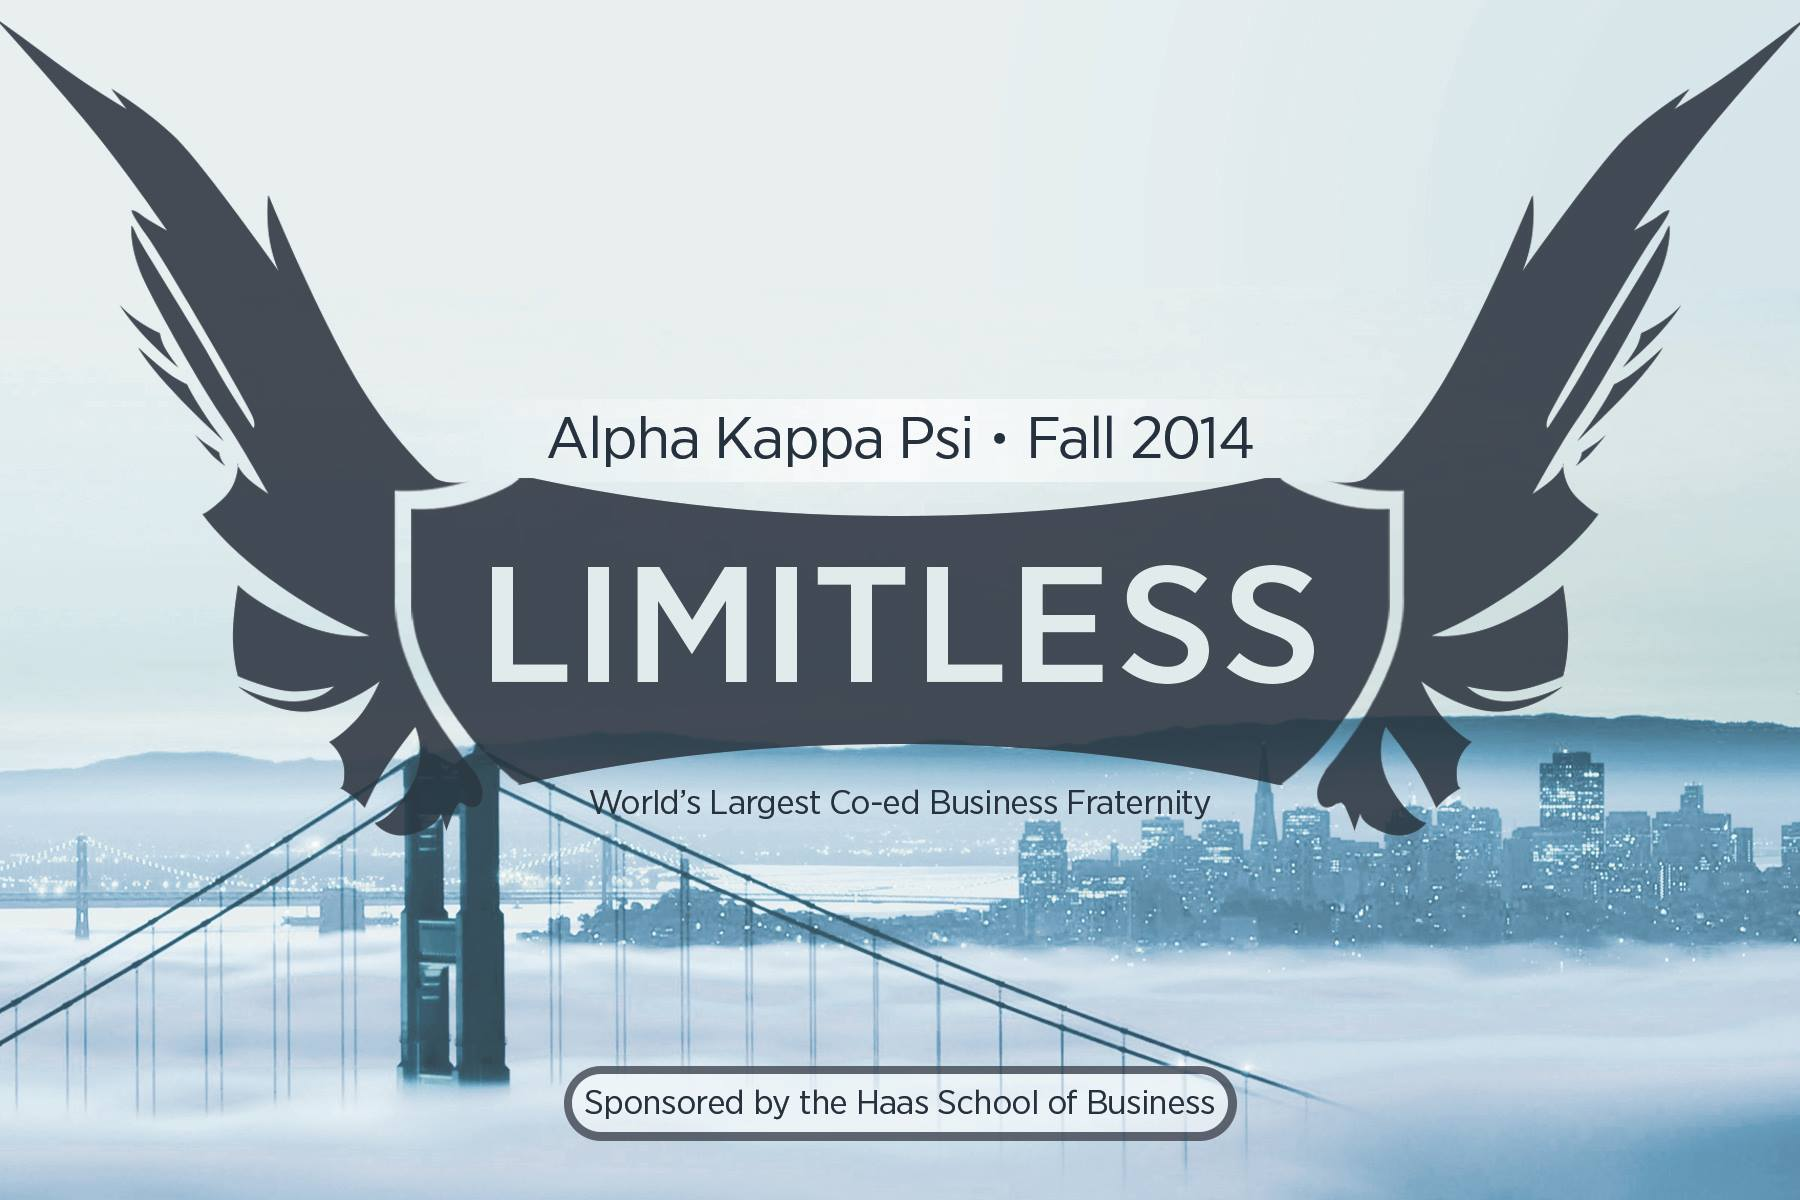
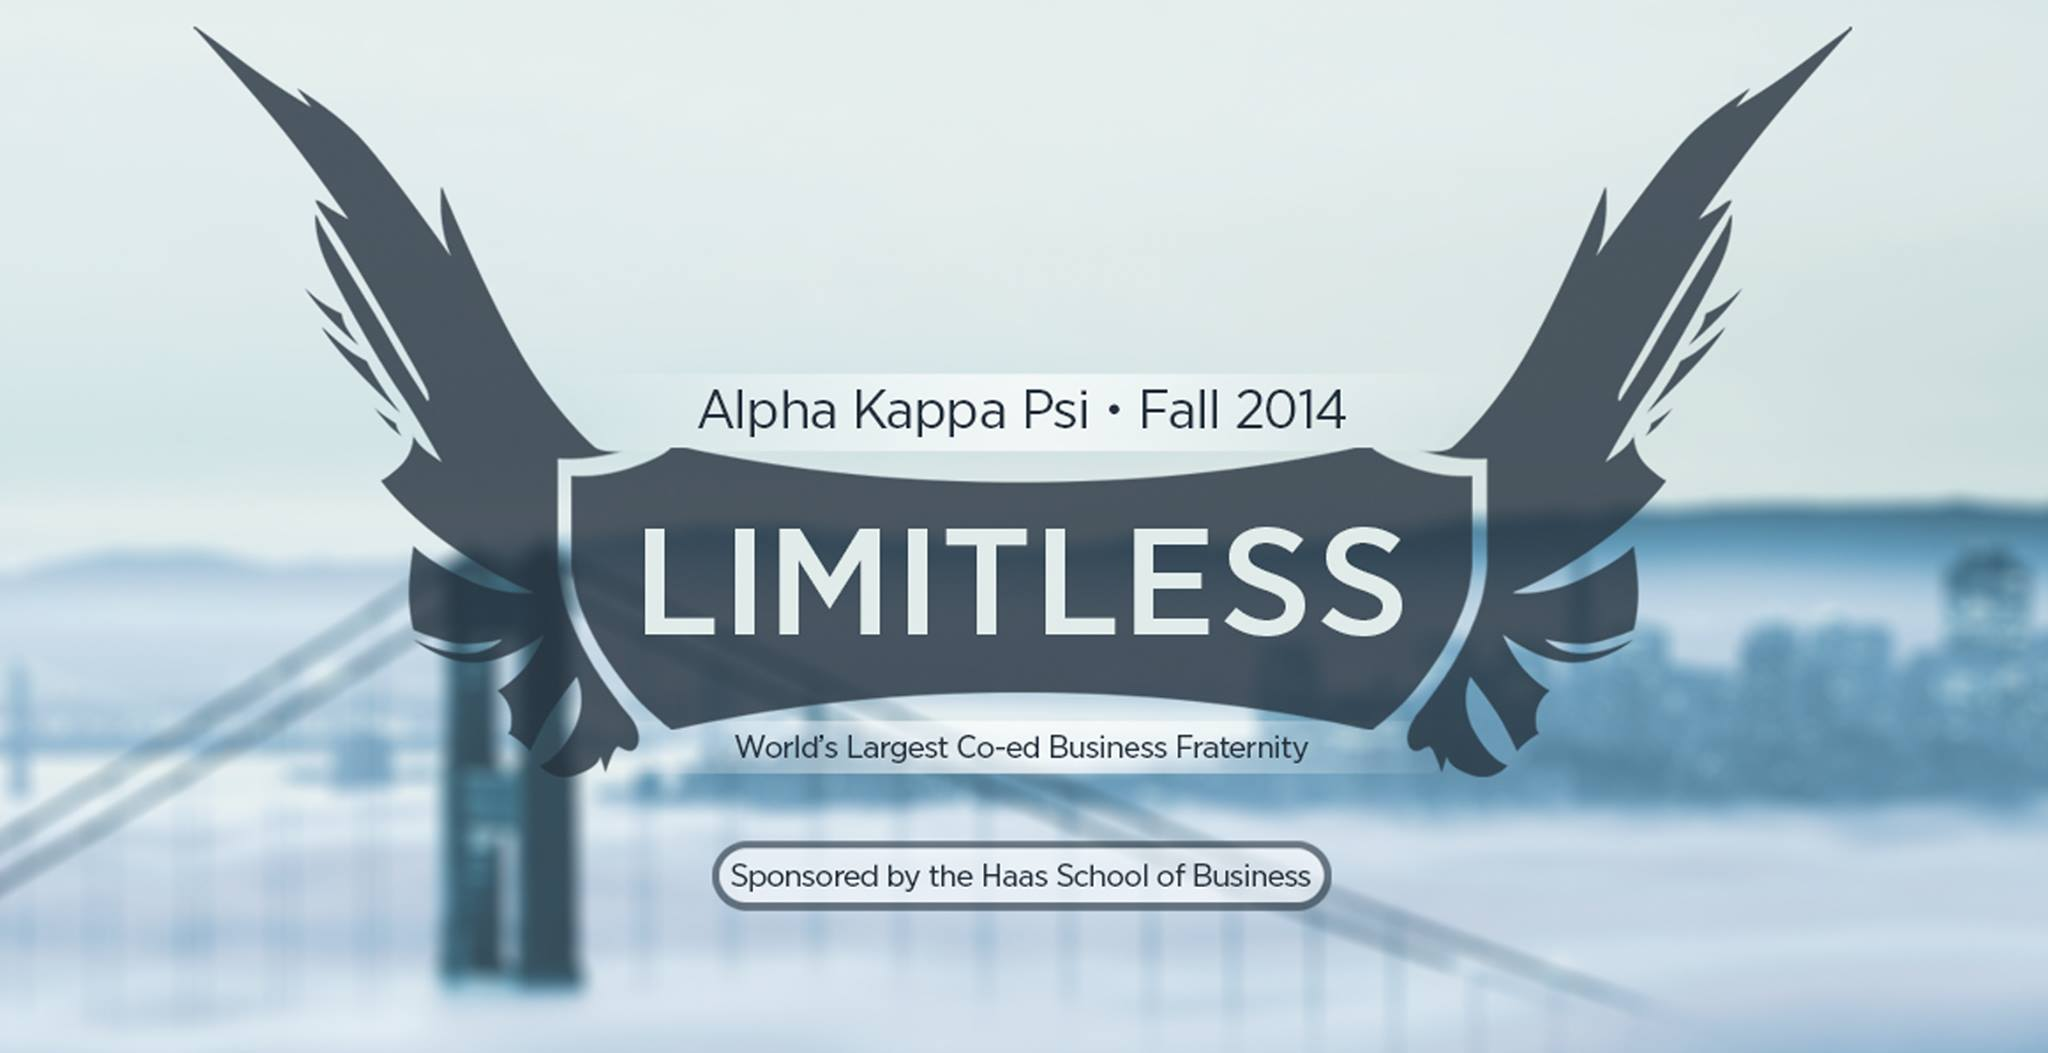
resized flyer

diff --git a/app/assets/stylesheets/carousel_base.css b/app/assets/stylesheets/carousel_base.css
@@ -163,6 +163,9 @@
 
 .demo-2 .bg-img-1 {
 	background-image: url('Rush_Flyer_F2014.jpg');
+	padding: 0px;
+	margin-left: 200px;
+	margin-top: 200px;
 }
 .demo-2 .bg-img-2 {
 	background-image: url('banquet.jpg');
